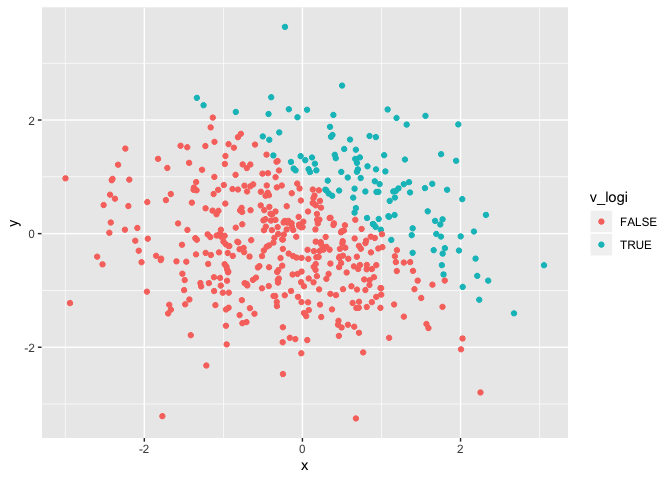
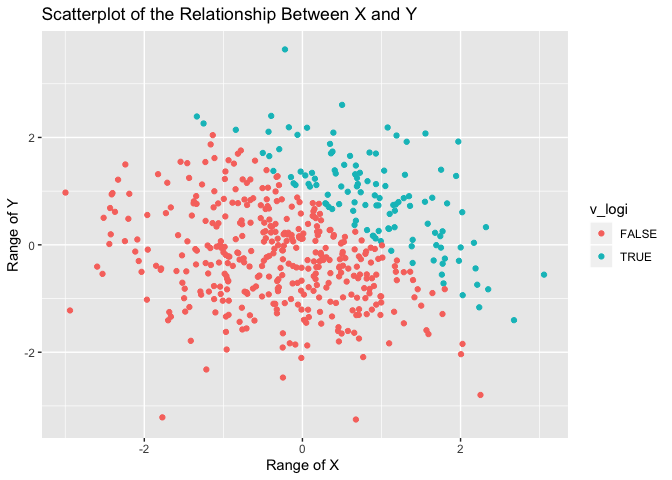
update titles for scatterplots

diff --git a/p8105_hw1_kw2873.md b/p8105_hw1_kw2873.md
@@ -90,7 +90,10 @@ mean, meadian, and standard deviation of x are 0.0226441, -0.0367783,
 # problem 2 continued with making plots
 
 ``` r
-ggplot(plot_df, aes(x = x, y = y, color = v_logi)) + geom_point() 
+ggplot(plot_df, aes(x = x, y = y, color = v_logi)) + geom_point() + 
+  labs(title = "Scatterplot of the Relationship Between X and Y ",
+       x = "Range of X ",
+       y = "Range of Y")
 ```
 
 ![](p8105_hw1_kw2873_files/figure-gfm/unnamed-chunk-5-1.png)<!-- -->
@@ -102,13 +105,19 @@ ggsave("scatterplot1.png")
     ## Saving 7 x 5 in image
 
 ``` r
-ggplot(plot_df, aes(x = x, y = y, color = v_num)) + geom_point()
+ggplot(plot_df, aes(x = x, y = y, color = v_num)) + geom_point() +
+  labs(title = "Scatterplot of the Relationship Between X and Y ",
+       x = "Range of X ",
+       y = "Range of Y" )
 ```
 
 ![](p8105_hw1_kw2873_files/figure-gfm/unnamed-chunk-5-2.png)<!-- -->
 
 ``` r
-ggplot(plot_df, aes(x = x, y = y, color = v_fac)) + geom_point()
+ggplot(plot_df, aes(x = x, y = y, color = v_fac)) + geom_point() + 
+  labs(title = "Scatterplot of the Relationship Between X and Y ",
+        x = "Range of X ",
+       y = "Range of Y")
 ```
 
 ![](p8105_hw1_kw2873_files/figure-gfm/unnamed-chunk-5-3.png)<!-- -->
